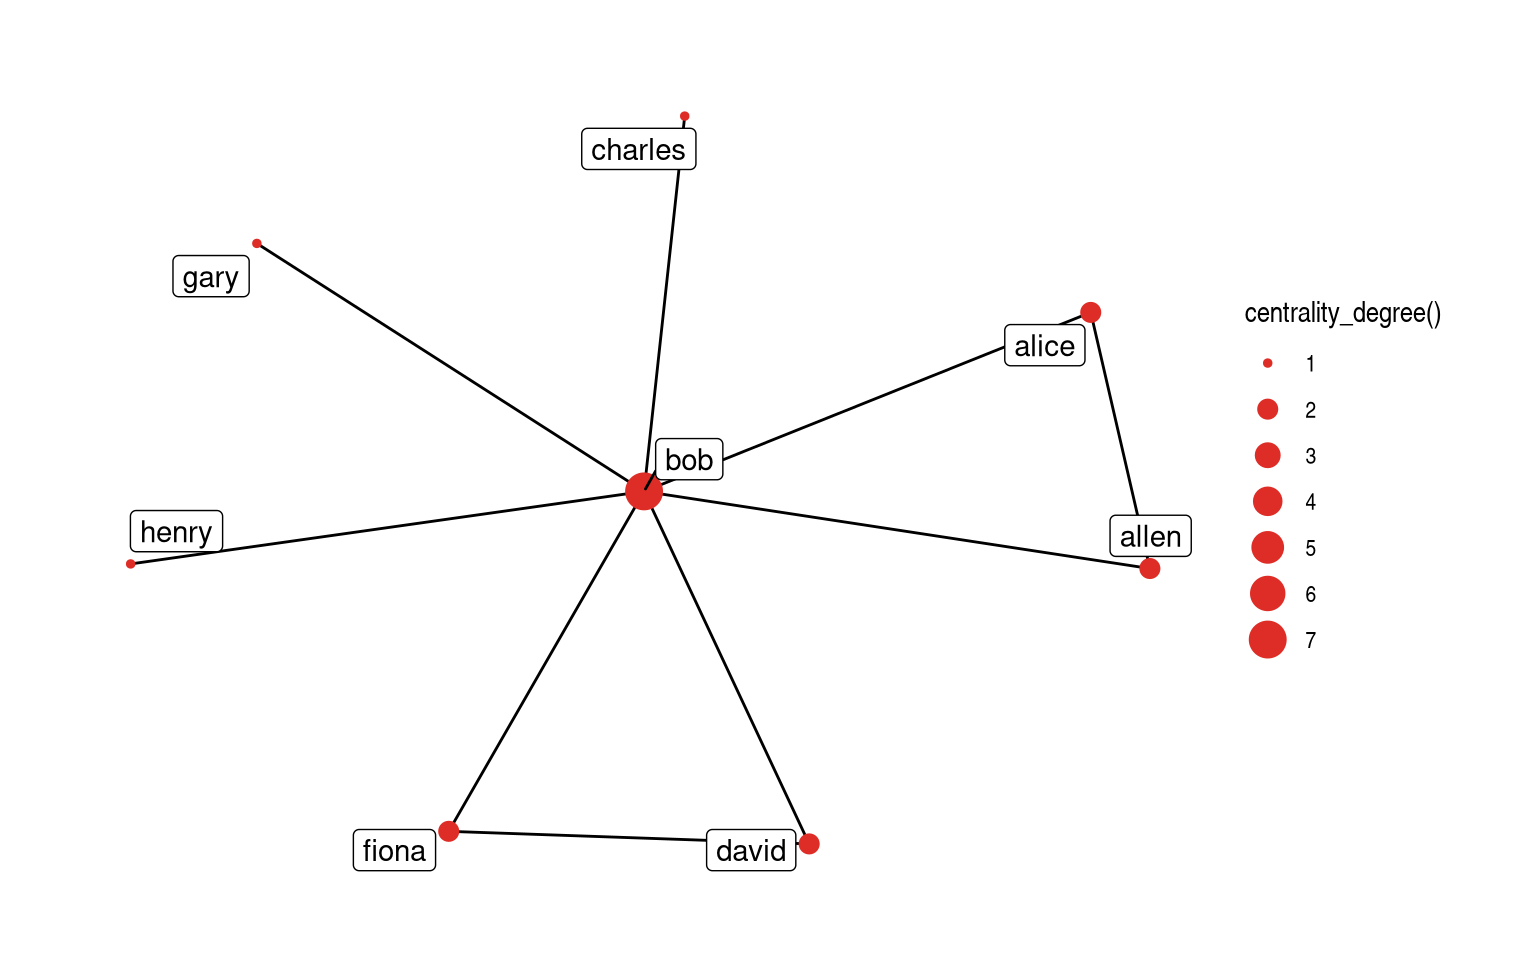
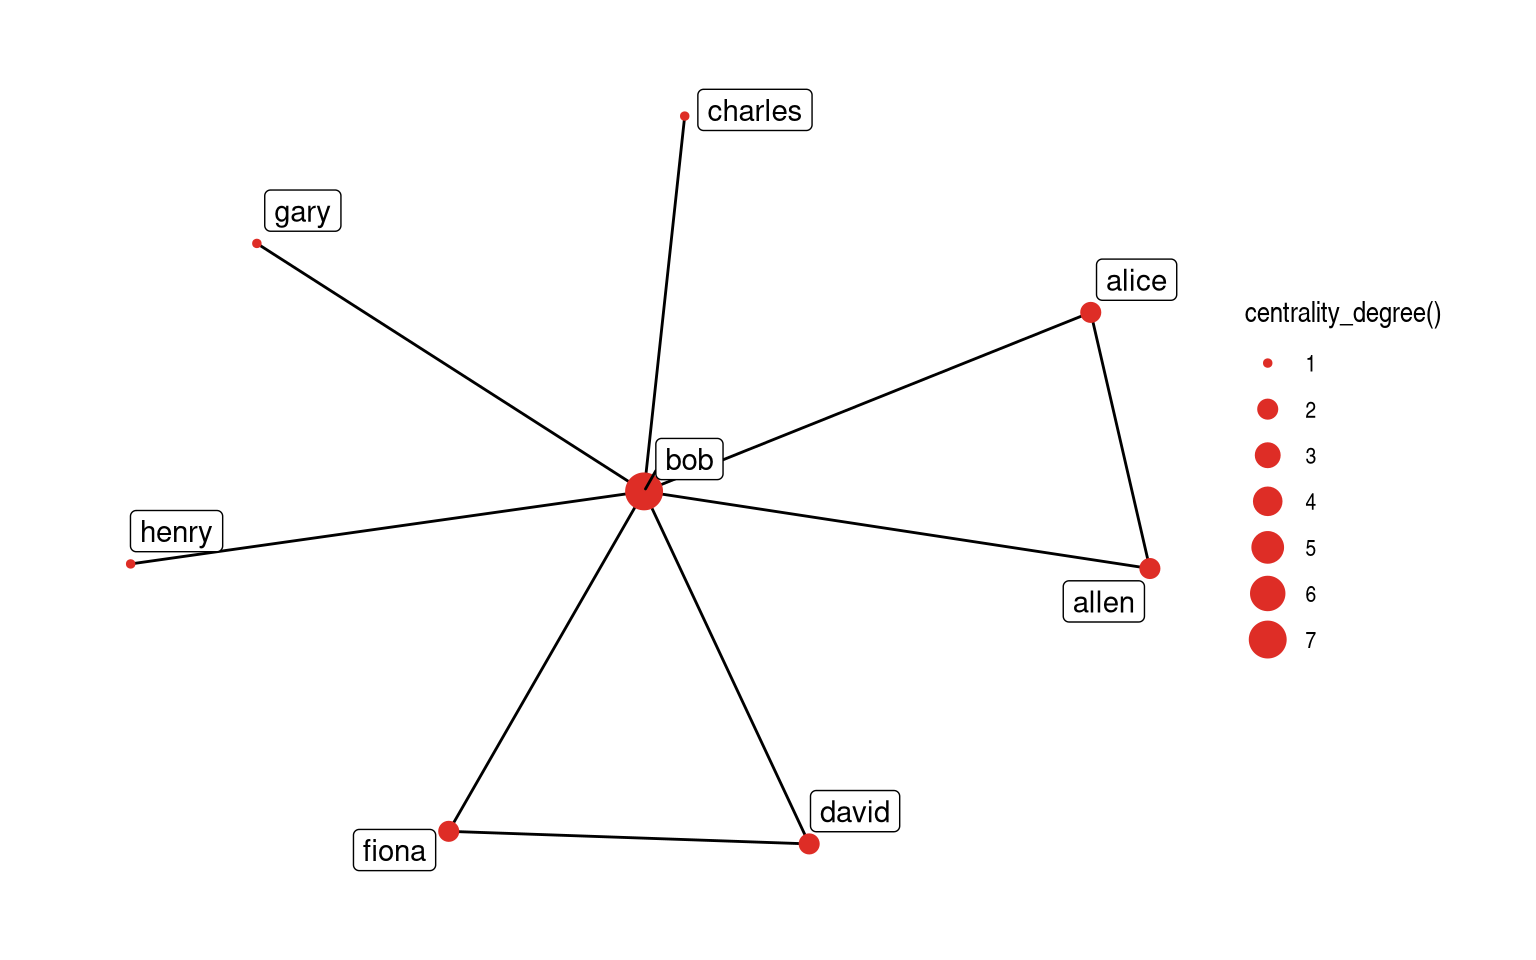
render

diff --git a/docs/ders-tidy-graph-text.html b/docs/ders-tidy-graph-text.html
@@ -2865,9 +2865,9 @@ Alper Yılmaz
 </table>
 <p>Aynı araçlar, farklı alan.</p>
 </section>
-<section id="tidy-fiillerin-lego-iması" class="slide level2">
-<h2>Tidy fiillerin lego iması</h2>
-<p>Farklı paketlerin fonksiyonları tidy veri alıp tidy veri verir; bu yüzden uç uca takılırlar.</p>
+<section id="tidy-fiiller-lego-gibi-birleştirilebilir" class="slide level2">
+<h2>Tidy fiiller lego gibi birleştirilebilir</h2>
+<p>Farklı paketlerin fonksiyonları tidy veri alıp tidy veri verir; bu yüzden uç uca eklenebilirler.</p>
 <div class="cell">
 <div class="code-copy-outer-scaffold"><div class="sourceCode cell-code" id="cb40"><pre class="sourceCode numberSource r number-lines code-with-copy"><code class="sourceCode r"><span id="cb40-1"><a aria-label="1"></a>corpus <span class="sc">|&gt;</span>                                    <span class="co"># veri</span></span>
 <span id="cb40-2"><a aria-label="2"></a>  <span class="fu">unnest_tokens</span>(word, abstract) <span class="sc">|&gt;</span>          <span class="co"># tidytext</span></span>
